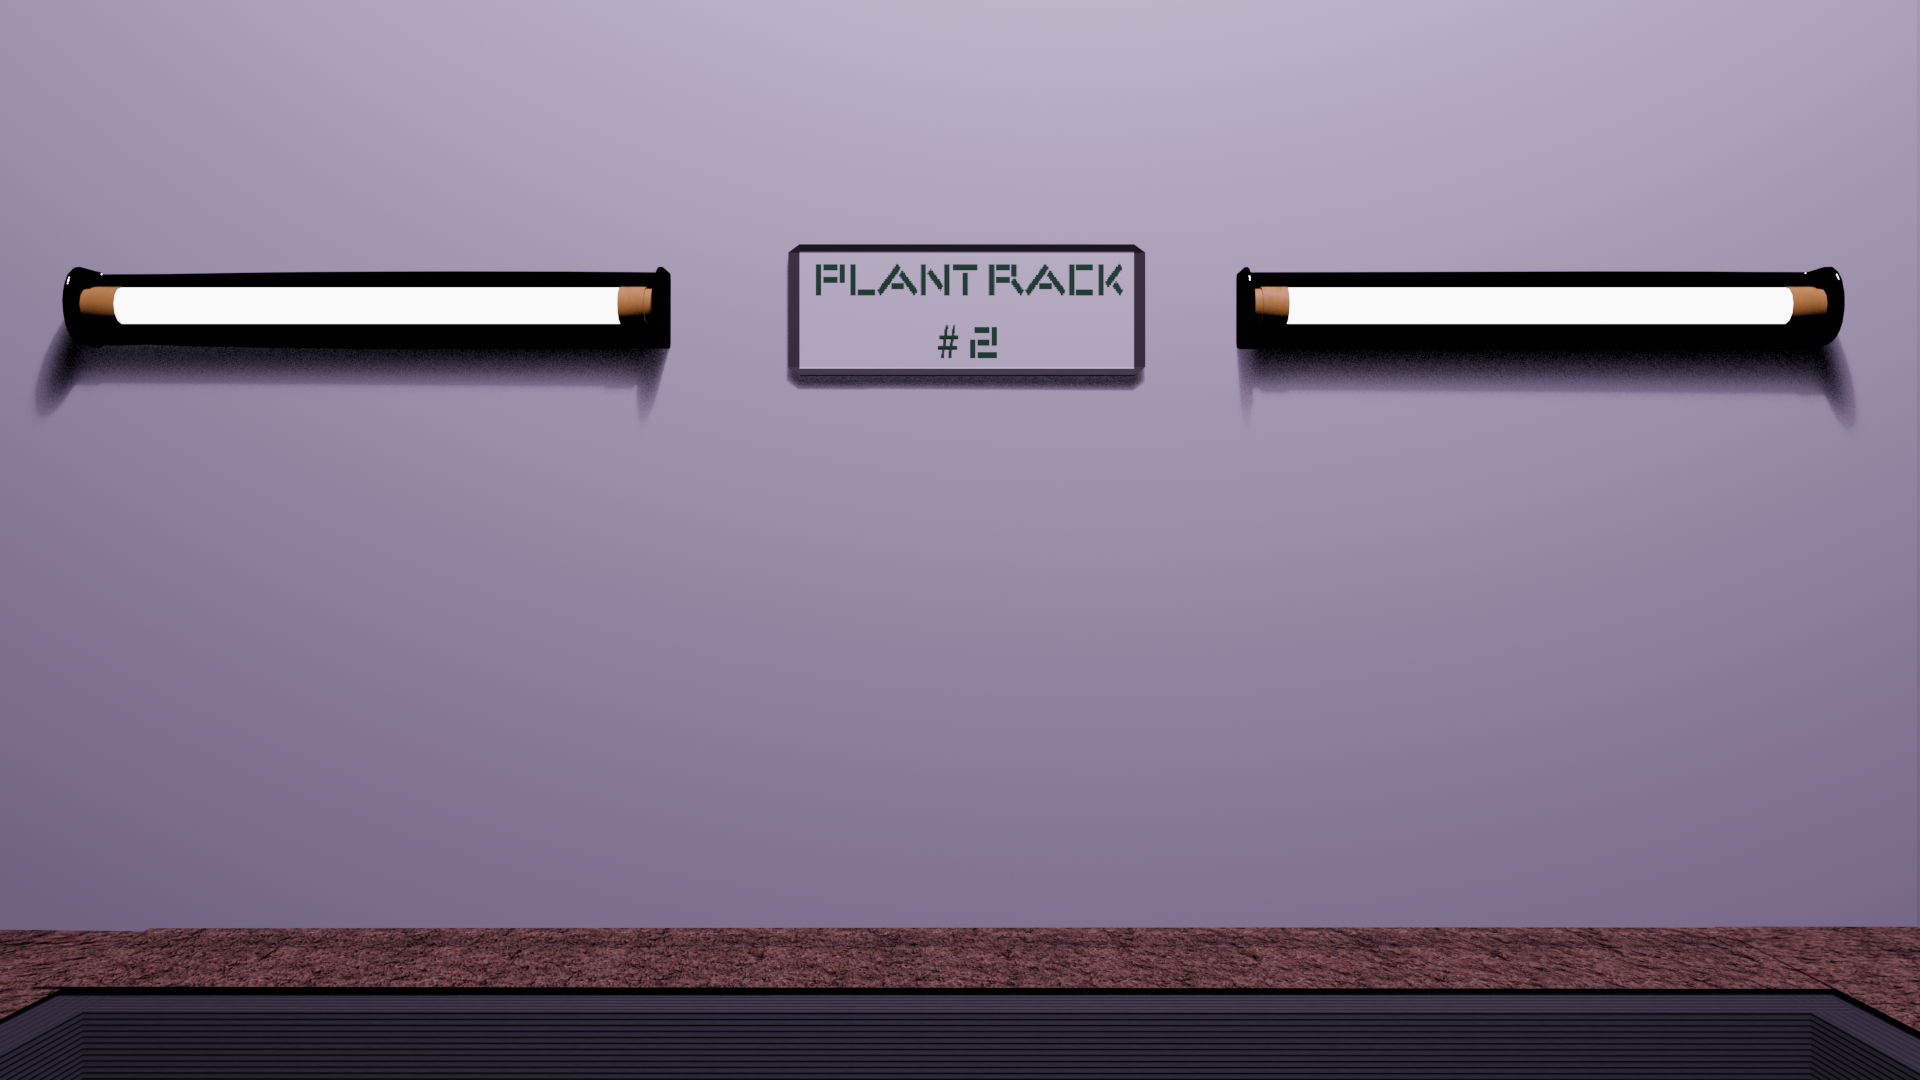
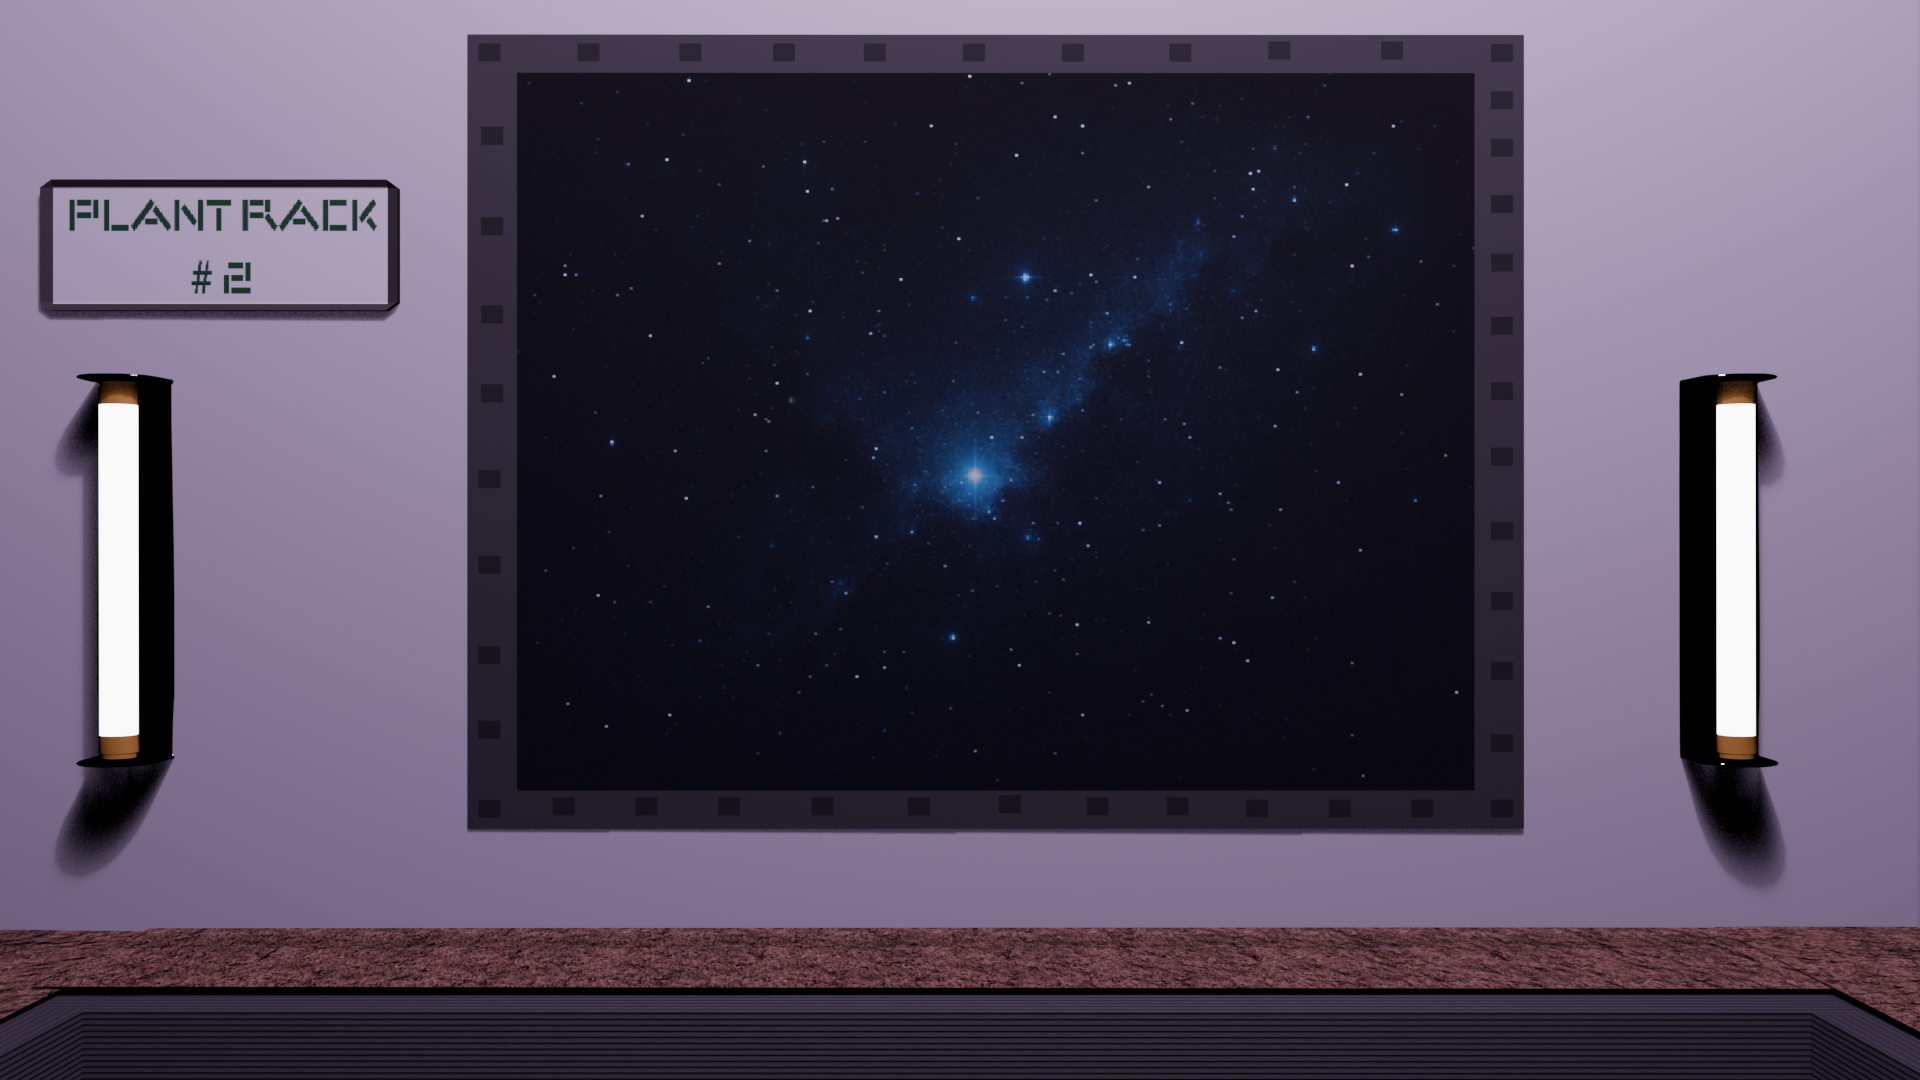
Added new assets and fixed conditional door bug

diff --git a/src/views/reactorRoom/RestartReactorView.js b/src/views/reactorRoom/RestartReactorView.js
@@ -47,7 +47,7 @@ class RestartReactorView extends View {
     this.activeInterface = "ScreenView";
 
     this.slidingDoor = new StandaloneSlidingDoor(10, 2.7, 1, () => {}, true, 2, null, 5, 0, () => {
-      return GS.is('reactorStabilized');
+      return true;
     });
 
     this.slidingDoor.setRoom(this);

diff --git a/src/views/ComputerView.js b/src/views/ComputerView.js
@@ -125,7 +125,6 @@ class Terminal {
         GS.set("regulateTempPuzzleSolved");
         GS.set("Root Access Granted");
         GS.set('fixedElectricalComponent')
-        GS.set('reactorStabilized')
       }
     });
 
